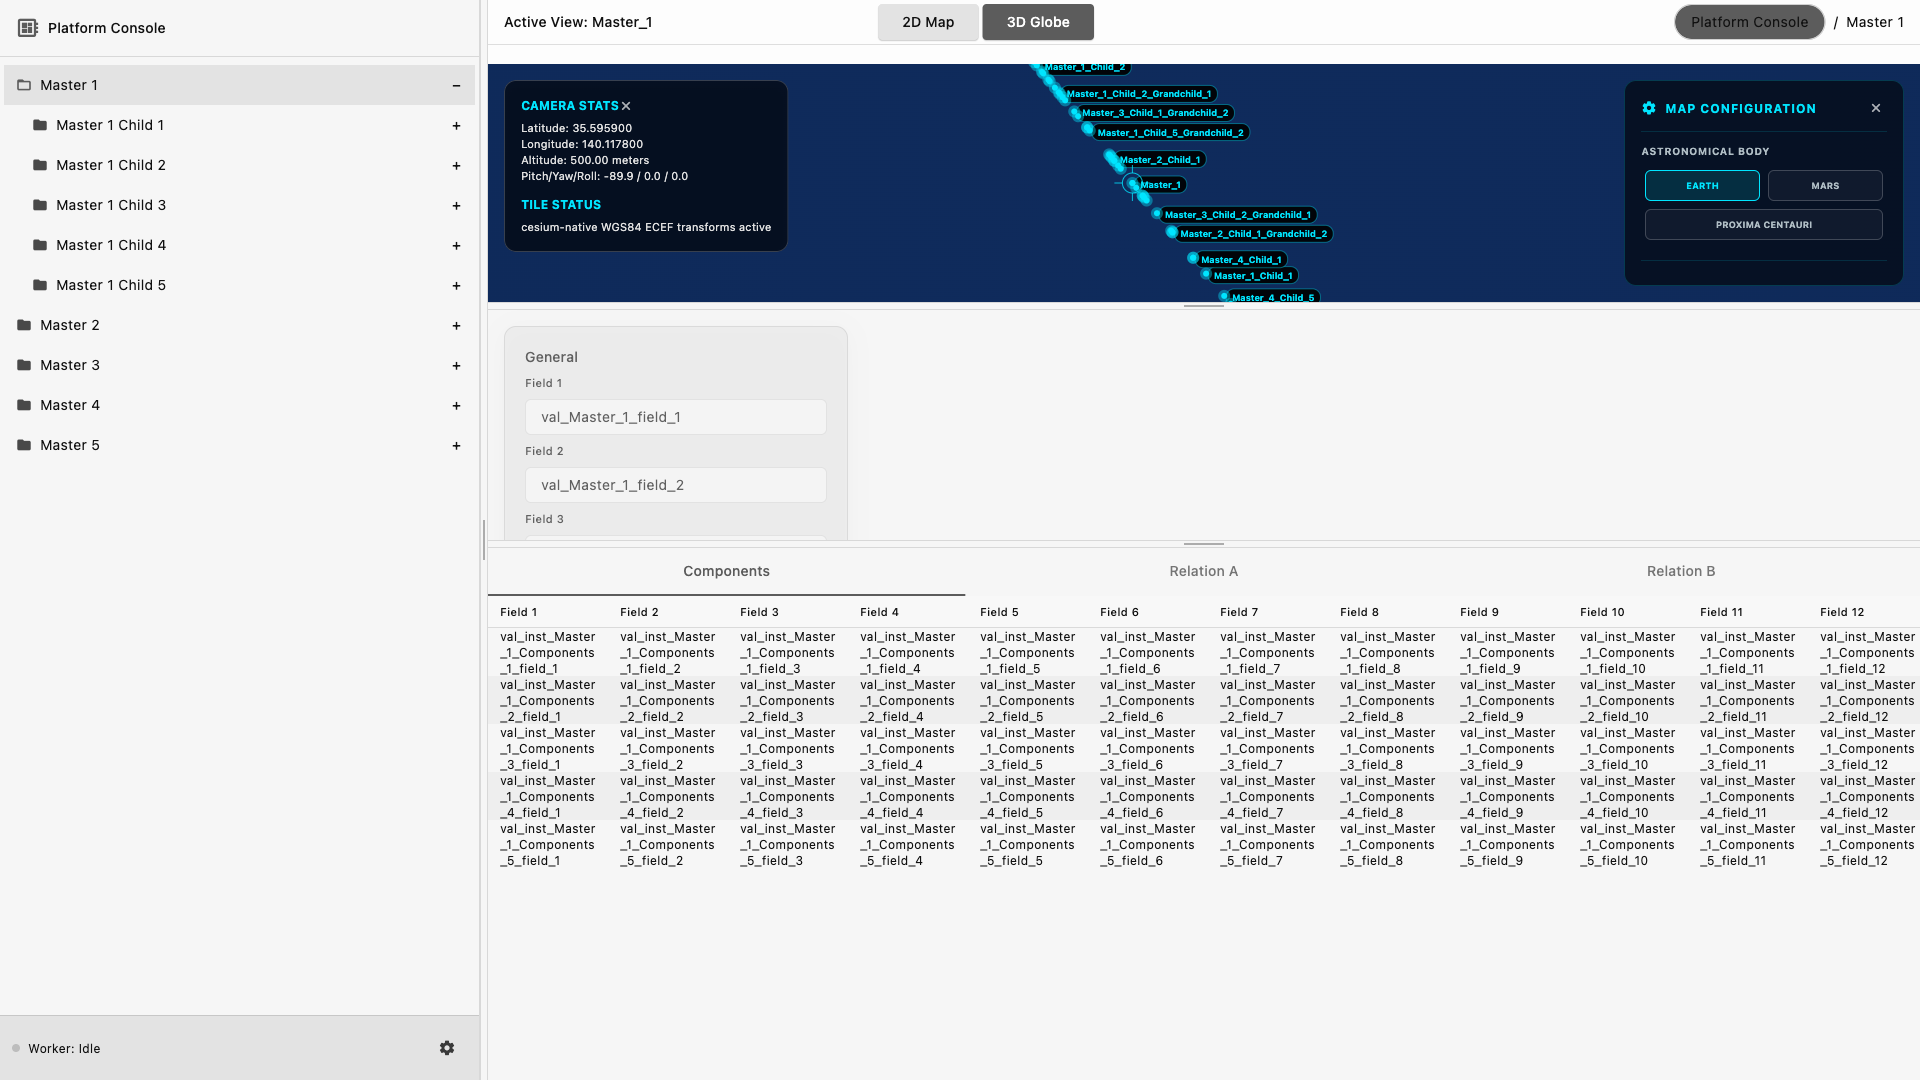
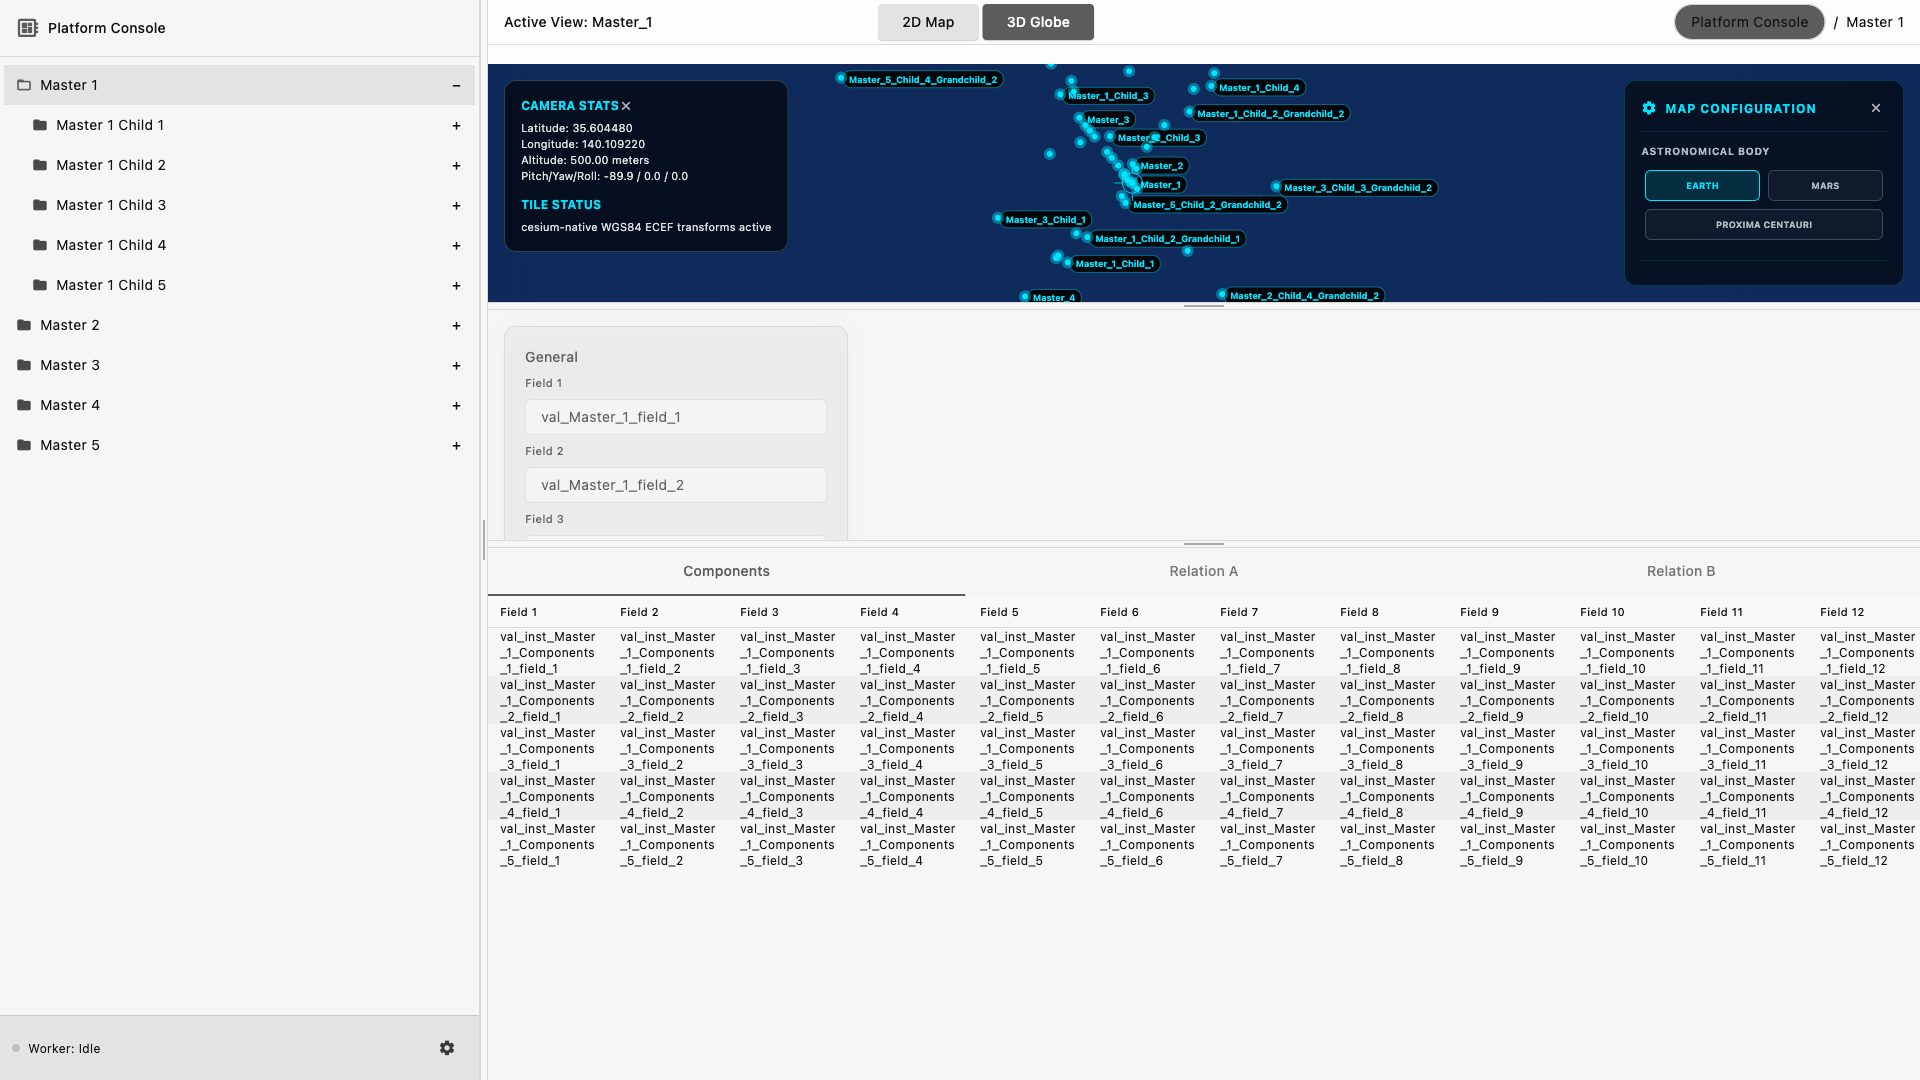
fix: resolve startup deadlock and add linter regression tests

Changed region(s): [[0.4375, 0.0611, 0.75, 0.3056], [0.3125, 0.1222, 0.3438, 0.1528]]

diff --git a/app_flutter/lib/domain/repository_resolver.dart b/app_flutter/lib/domain/repository_resolver.dart
@@ -194,7 +194,7 @@ class RepositoryResolver {
             bytes.lengthInBytes,
           );
           if (assetPath.endsWith('.gz')) {
-            decodedBytes = await compute(gzip.decode, decodedBytes);
+            decodedBytes = gzip.decode(decodedBytes);
           }
           await dbFile.writeAsBytes(decodedBytes);
         } catch (e) {

diff --git a/tests/test_linter_reliability.py b/tests/test_linter_reliability.py
@@ -426,5 +426,66 @@ We track latitude and longitude coordinates.
     valid_err = [e for e in errors if "feat-valid.md" in e]
     assert len(valid_err) == 0
 
+def test_programmatic_epics_dir_override(tmp_path, base_config):
+    ws_dir = setup_workspace(tmp_path, base_config)
+    repo = WorkspaceRepository(str(ws_dir))
+    custom_epics_dir = tmp_path / "custom_epics"
+    os.makedirs(custom_epics_dir, exist_ok=True)
+    with open(custom_epics_dir / "epic_valid.md", "w", encoding="utf-8") as f:
+        f.write("# Epic 1\n\n## UML Diagrams\n```mermaid\nclassDiagram\nclass CustomClass {}\n```\n")
+        
+    from parity_auditor.validators.uml import UmlValidator
+    validator = UmlValidator()
+    global_classes = validator.build_global_classes(repo, os.path.join(ws_dir, "docs/features"), str(custom_epics_dir))
+    assert "CustomClass" in global_classes
+
+def test_unbracketed_return_multiplicity(tmp_path, base_config):
+    ws_dir = setup_workspace(tmp_path, base_config)
+    repo = WorkspaceRepository(str(ws_dir))
+    features_dir = ws_dir / "docs" / "features"
+    os.makedirs(features_dir, exist_ok=True)
+    with open(features_dir / "feat-methods.md", "w", encoding="utf-8") as f:
+        f.write("# Feature: Methods\n## UML Diagrams\n```mermaid\nclassDiagram\n    class MyService {\n        +void doWork()\n        +Node fetchNode()\n    }\n```\n")
+    from parity_auditor.validators.uml import UmlValidator
+    validator = UmlValidator()
+    errors = validator.validate(repo, epics_dir=str(ws_dir / "docs/epics"))
+    mult_errors = [e for e in errors if "missing a multiplicity" in e]
+    assert not mult_errors, f"Expected no multiplicity errors on unbracketed returns, but got: {mult_errors}"
+
+def test_common_word_coverage_context(tmp_path, base_config):
+    schemas = {
+        "user.yang": "\n        module user {\n            container User {\n                leaf id { type string; }\n                leaf name { type string; }\n            }\n        }\n        "
+    }
+    flutter_files_invalid = {
+        "widgets/user_card.dart": "// This is comment containing id and name"
+    }
+    ws_dir_invalid = setup_workspace(tmp_path / "invalid", base_config, schemas=schemas, flutter_files=flutter_files_invalid)
+    repo_invalid = WorkspaceRepository(str(ws_dir_invalid))
+    validator = SchemaMappingValidator()
+    errors_invalid = validator.validate(repo_invalid)
+    assert any("id" in err or "name" in err for err in errors_invalid)
+
+    flutter_files_valid = {
+        "widgets/user_card.dart": "class User { final String id; final String name; User({required this.id, required this.name}); }"
+    }
+    ws_dir_valid = setup_workspace(tmp_path / "valid", base_config, schemas=schemas, flutter_files=flutter_files_valid)
+    repo_valid = WorkspaceRepository(str(ws_dir_valid))
+    errors_valid = validator.validate(repo_valid)
+    assert not errors_valid, f"Expected no errors, but got: {errors_valid}"
+
+def test_mermaid_prose_dotted_link(tmp_path, base_config):
+    ws_dir = setup_workspace(tmp_path, base_config)
+    repo = WorkspaceRepository(str(ws_dir))
+    features_dir = ws_dir / "docs" / "features"
+    os.makedirs(features_dir, exist_ok=True)
+    with open(features_dir / "feat-prose.md", "w", encoding="utf-8") as f:
+        f.write("# Feature: Prose\nPlease refer to this: A ..> B for description.\n\n## UML Diagrams\n```mermaid\nclassDiagram\n    class A\n    class B\n    A ..> B : dependency\n```\n")
+    from parity_auditor.validators.uml import UmlValidator
+    validator = UmlValidator()
+    errors = validator.validate(repo, epics_dir=str(ws_dir / "docs/epics"))
+    link_errors = [e for e in errors if "dotted link" in e]
+    assert not link_errors, f"Expected no link errors from prose, but got: {link_errors}"
+
+
 
 